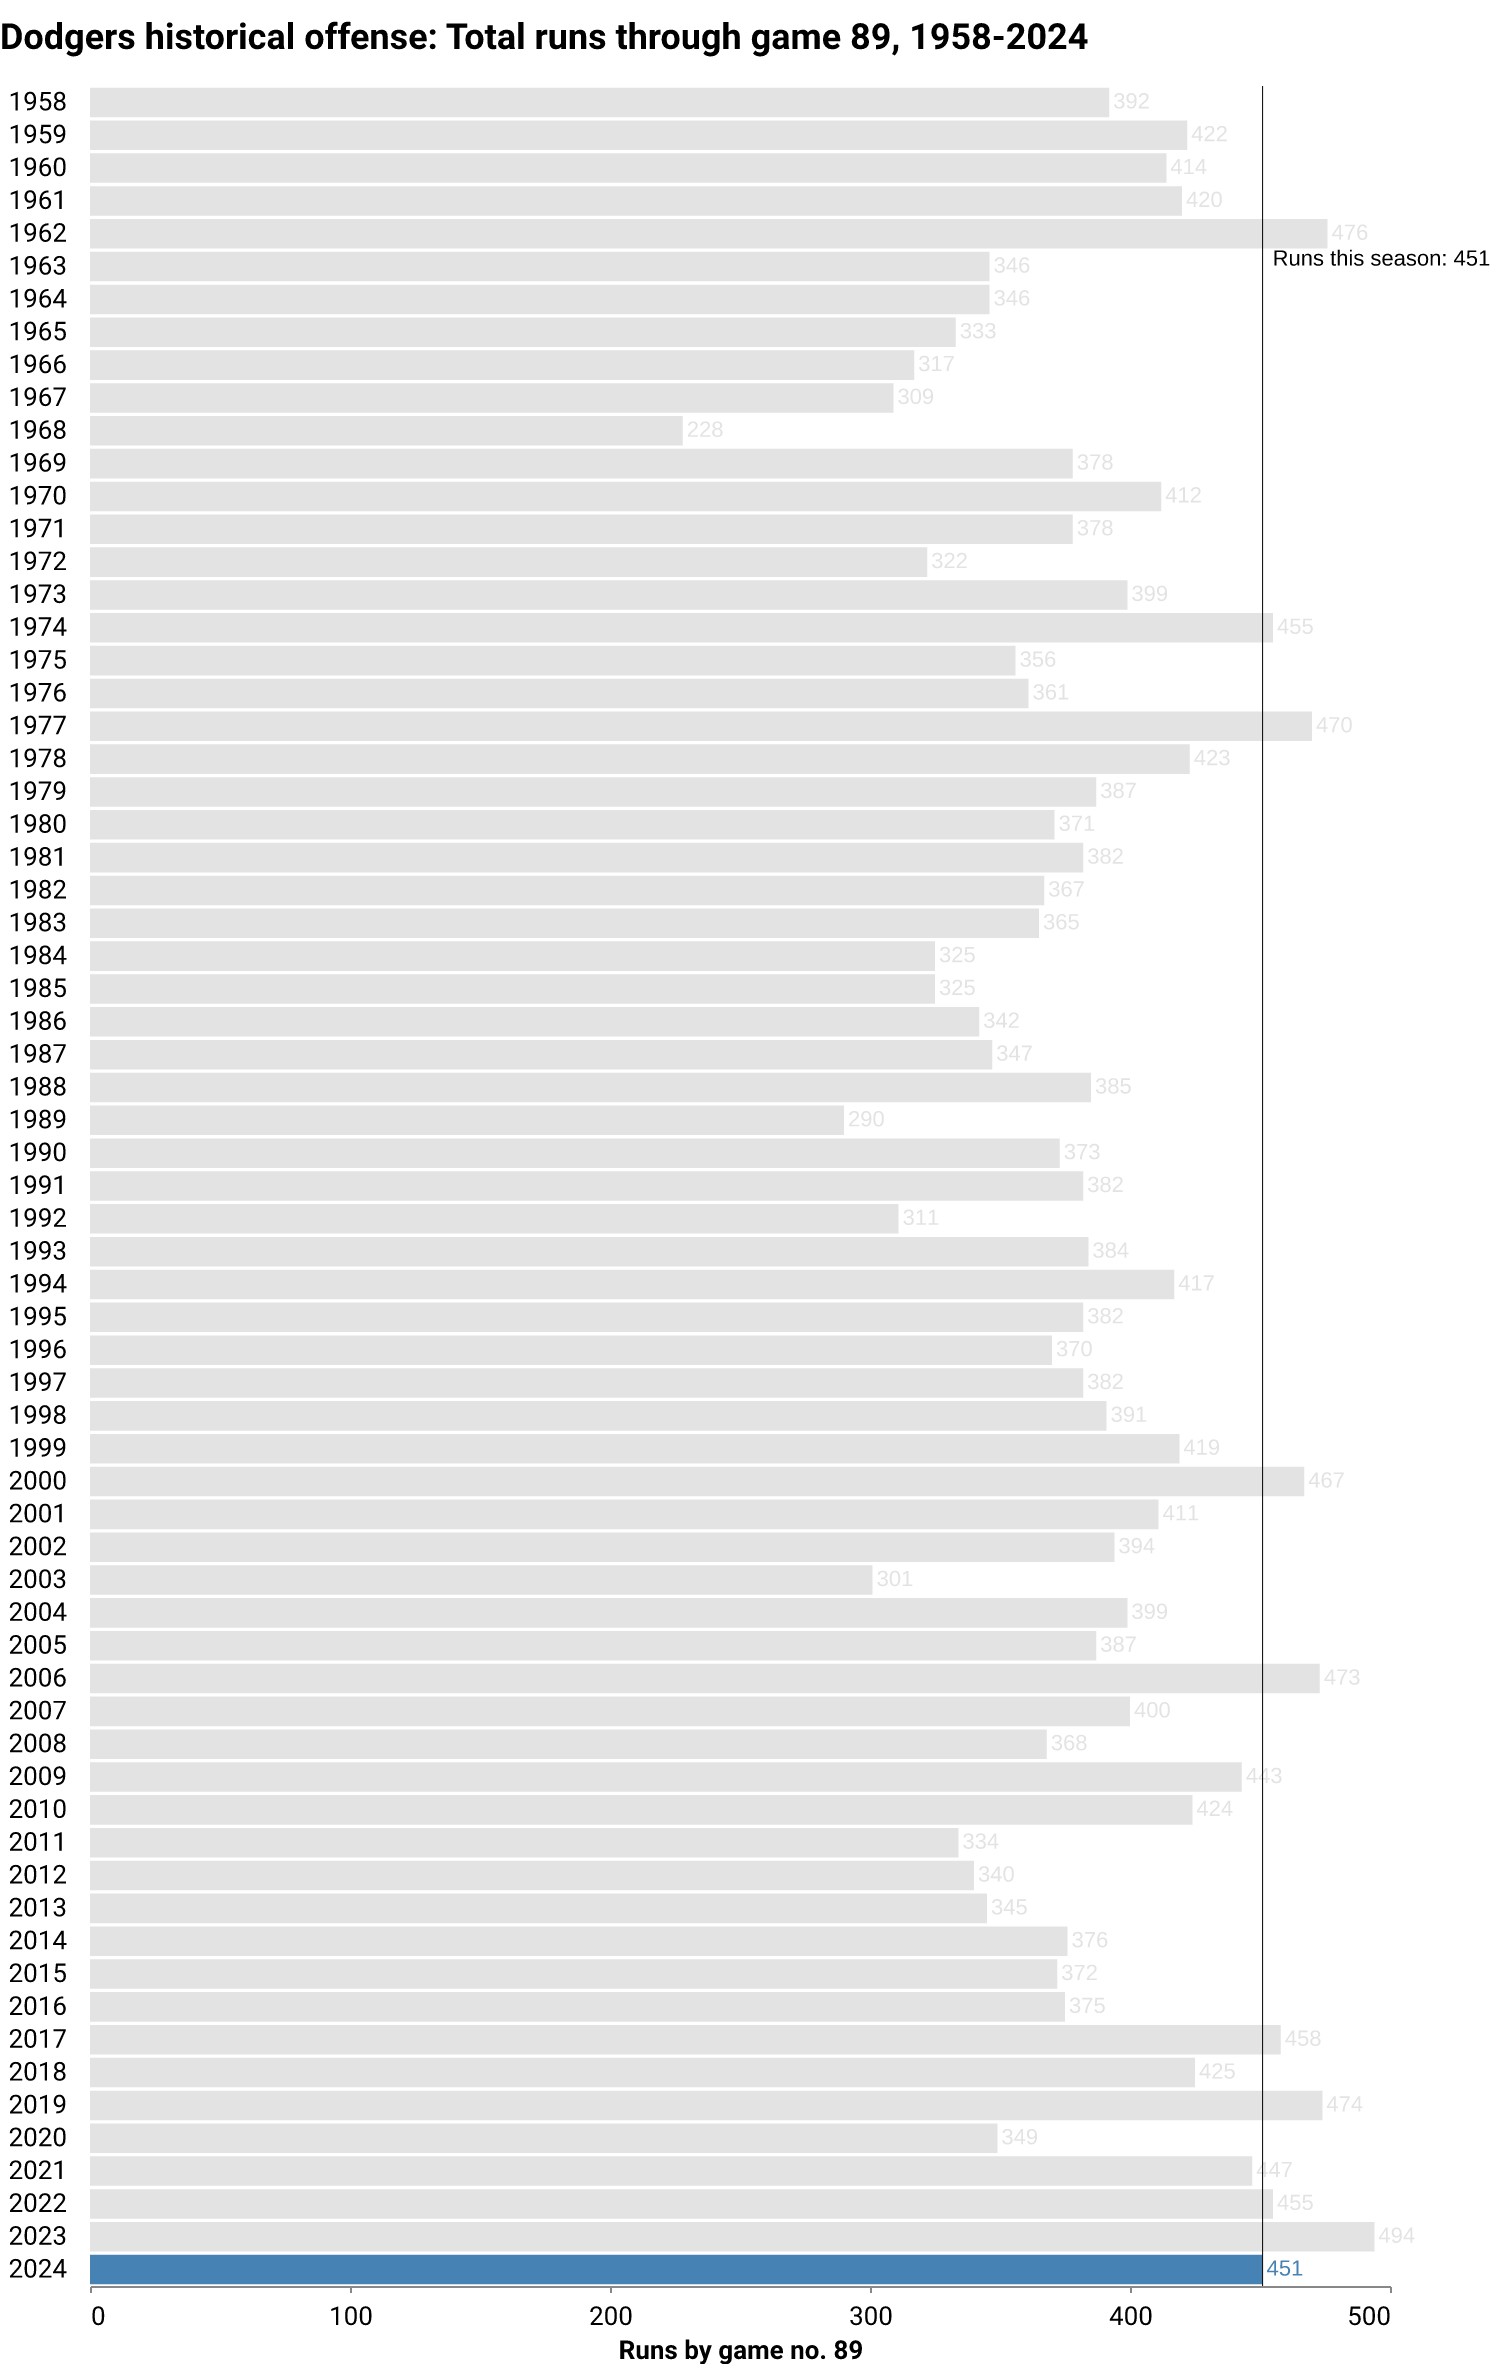
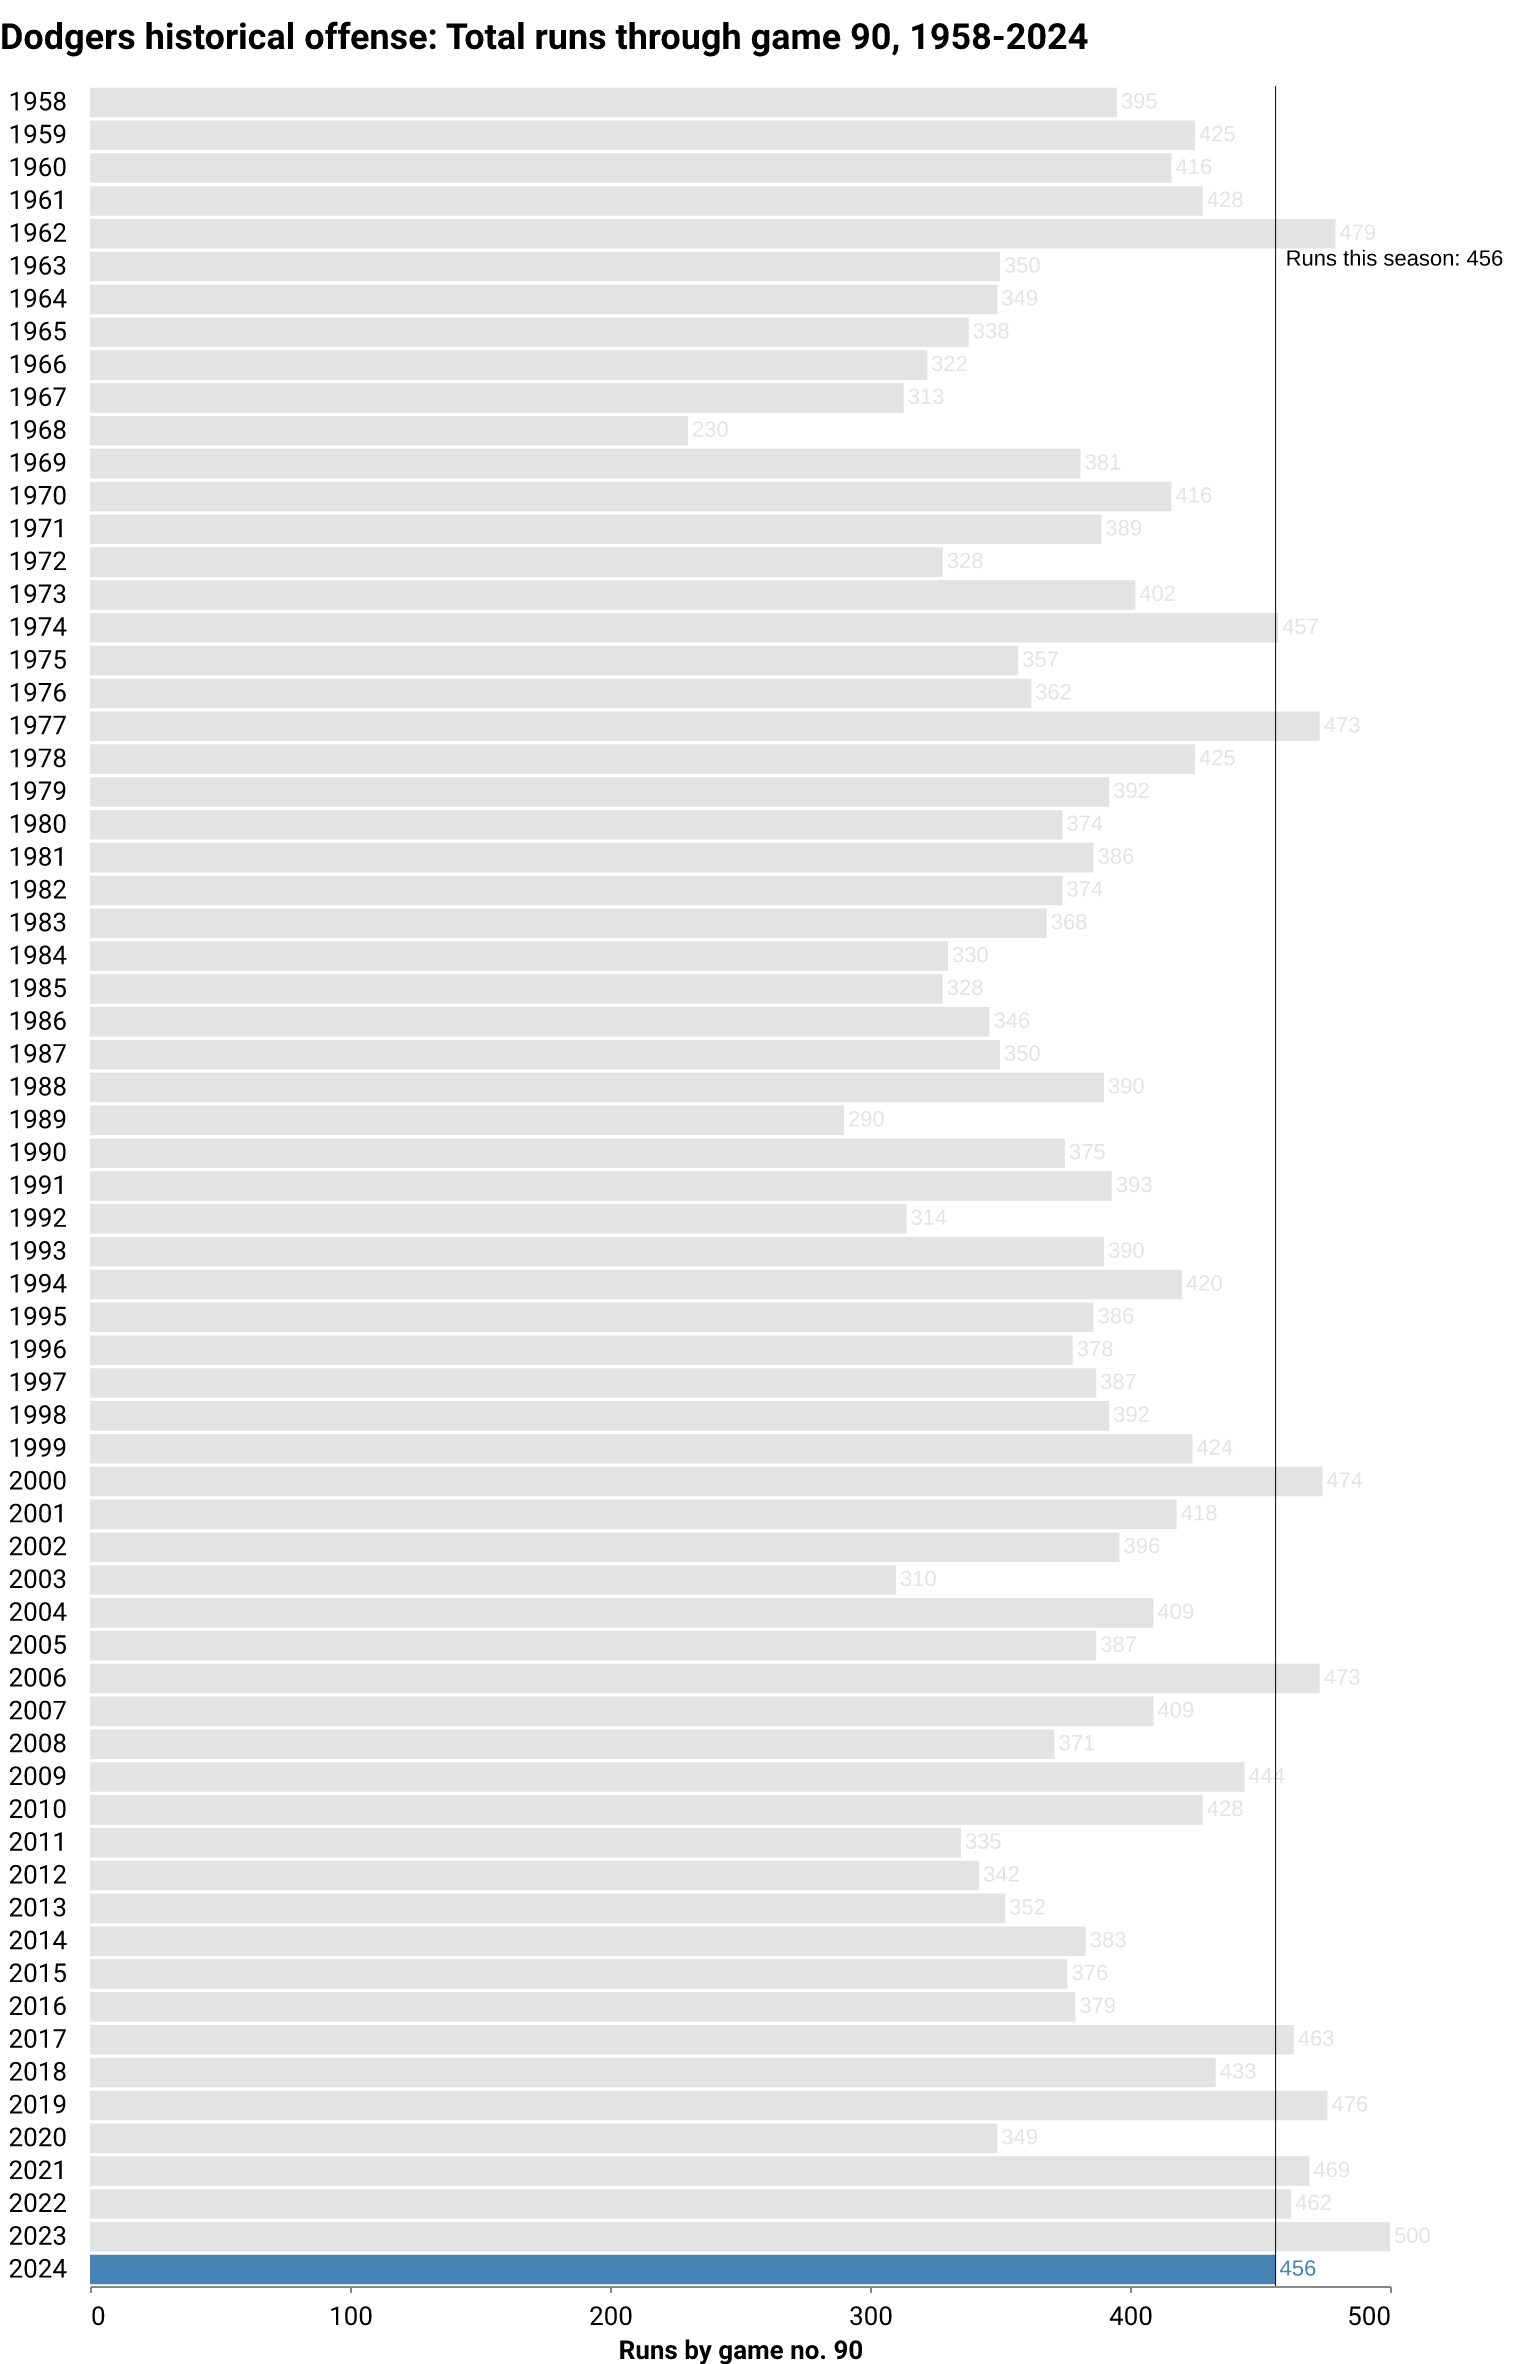
deploy: b13e2bef16f328a0b7794105669f8908c060fccc

diff --git a/index.html b/index.html
@@ -184,7 +184,7 @@
 <p class="subhead">
     
     
-    <span class="highlight">LOS ANGELES</span> <span class="updated">(July 7)</span> — After <span class="highlight">89</span> games this season, the Dodgers are in <span class="highlight">1st</span> place in the National League West division. The team has compiled a <span class="highlight">54-35</span> record, winning <span class="highlight">61%</span> of its games so far. The last game was a <span class="highlight">8-5</span> home <span class="highlight">win</span> against the Milwaukee Brewers in front of <span class="highlight">49,885</span> fans. They've won <span class="highlight">6 of the last 10</span>.
+    <span class="highlight">LOS ANGELES</span> <span class="updated">(July 7)</span> — After <span class="highlight">90</span> games this season, the Dodgers are in <span class="highlight">1st</span> place in the National League West division. The team has compiled a <span class="highlight">55-35</span> record, winning <span class="highlight">61%</span> of its games so far. The last game was a <span class="highlight">5-3</span> home <span class="highlight">win</span> against the Milwaukee Brewers in front of <span class="highlight">50,086</span> fans. They've won <span class="highlight">6 of the last 10</span>.
 </p>
 </div>
 
@@ -206,10 +206,10 @@
             Wins
           </div>
           <div class="card-body">
-            <p class="card-text">54</p>
+            <p class="card-text">55</p>
           </div>
           <div class="card-footer text-muted">
-        This point last season: 51
+        This point last season: 52
           </div>
         </div>
       </div>
@@ -238,10 +238,10 @@
             Record
           </div>
           <div class="card-body">
-            <p class="card-text">54-35</p>
+            <p class="card-text">55-35</p>
           </div>
           <div class="card-footer text-muted">
-        This point last season: 51-38
+        This point last season: 52-38
           </div>
         </div>
       </div>
@@ -257,7 +257,7 @@
             <p class="card-text">61%</p>
           </div>
           <div class="card-footer text-muted">
-        This point last season: 56%
+        This point last season: 57%
           </div>
         </div>
       </div>
@@ -270,7 +270,7 @@
             Games up/back
           </div>
           <div class="card-body">
-            <p class="card-text">6.5</p>
+            <p class="card-text">7.5</p>
           </div>
           <div class="card-footer text-muted">
         Division rank: 1
@@ -286,10 +286,10 @@
             Avg. home attendance
           </div>
           <div class="card-body">
-            <p class="card-text">47,812</p>
+            <p class="card-text">47,862</p>
           </div>
           <div class="card-footer text-muted">
-        Home games this season: 45
+        Home games this season: 46
           </div>
         </div>
       </div>
@@ -302,7 +302,7 @@
             Runs
           </div>
           <div class="card-body">
-            <p class="card-text">451</p>
+            <p class="card-text">456</p>
           </div>
           <div class="card-footer text-muted">
         League rank: 1
@@ -318,7 +318,7 @@
             Runs against
           </div>
           <div class="card-body">
-            <p class="card-text">342</p>
+            <p class="card-text">345</p>
           </div>
           <div class="card-footer text-muted">
         This point last season: 418
@@ -334,10 +334,10 @@
             Run differential
           </div>
           <div class="card-body">
-            <p class="card-text">109</p>
+            <p class="card-text">111</p>
           </div>
           <div class="card-footer text-muted">
-        This point last season: 76
+        This point last season: 82
           </div>
         </div>
       </div>
@@ -424,7 +424,7 @@
             Home runs
           </div>
           <div class="card-body">
-            <p class="card-text">120</p>
+            <p class="card-text">123</p>
           </div>
           <div class="card-footer text-muted">
         League rank: 1
@@ -440,7 +440,7 @@
             Home runs/game
           </div>
           <div class="card-body">
-            <p class="card-text">1.35</p>
+            <p class="card-text">1.37</p>
           </div>
           <div class="card-footer text-muted">
         Last decade average: 1.36
@@ -472,7 +472,7 @@
             Stolen bases
           </div>
           <div class="card-body">
-            <p class="card-text">50</p>
+            <p class="card-text">51</p>
           </div>
           <div class="card-footer text-muted">
         League rank: 11
@@ -488,7 +488,7 @@
             Stolen bases/game
           </div>
           <div class="card-body">
-            <p class="card-text">0.56</p>
+            <p class="card-text">0.57</p>
           </div>
           <div class="card-footer text-muted">
         Rate all last season: 0.65
@@ -598,7 +598,7 @@
             Strikeouts
           </div>
           <div class="card-body">
-            <p class="card-text">761</p>
+            <p class="card-text">768</p>
           </div>
           <div class="card-footer text-muted">
         League rank: 5
@@ -614,7 +614,7 @@
             Walks
           </div>
           <div class="card-body">
-            <p class="card-text">267</p>
+            <p class="card-text">270</p>
           </div>
           <div class="card-footer text-muted">
         League rank: 7
@@ -630,7 +630,7 @@
             ERA
           </div>
           <div class="card-body">
-            <p class="card-text">3.56</p>
+            <p class="card-text">3.55</p>
           </div>
           <div class="card-footer text-muted">
         League rank: 3
@@ -708,7 +708,7 @@
     </div>
 </div>
 
-  <p class="dated">Notes: Last updated July 7, 2024, 12:04 AM PT. More <a href="https://github.com/stiles/dodgers/blob/main/README.md">about the data</a>.</p>
+  <p class="dated">Notes: Last updated July 7, 2024, 4:03 AM PT. More <a href="https://github.com/stiles/dodgers/blob/main/README.md">about the data</a>.</p>
   
 </div>
 
